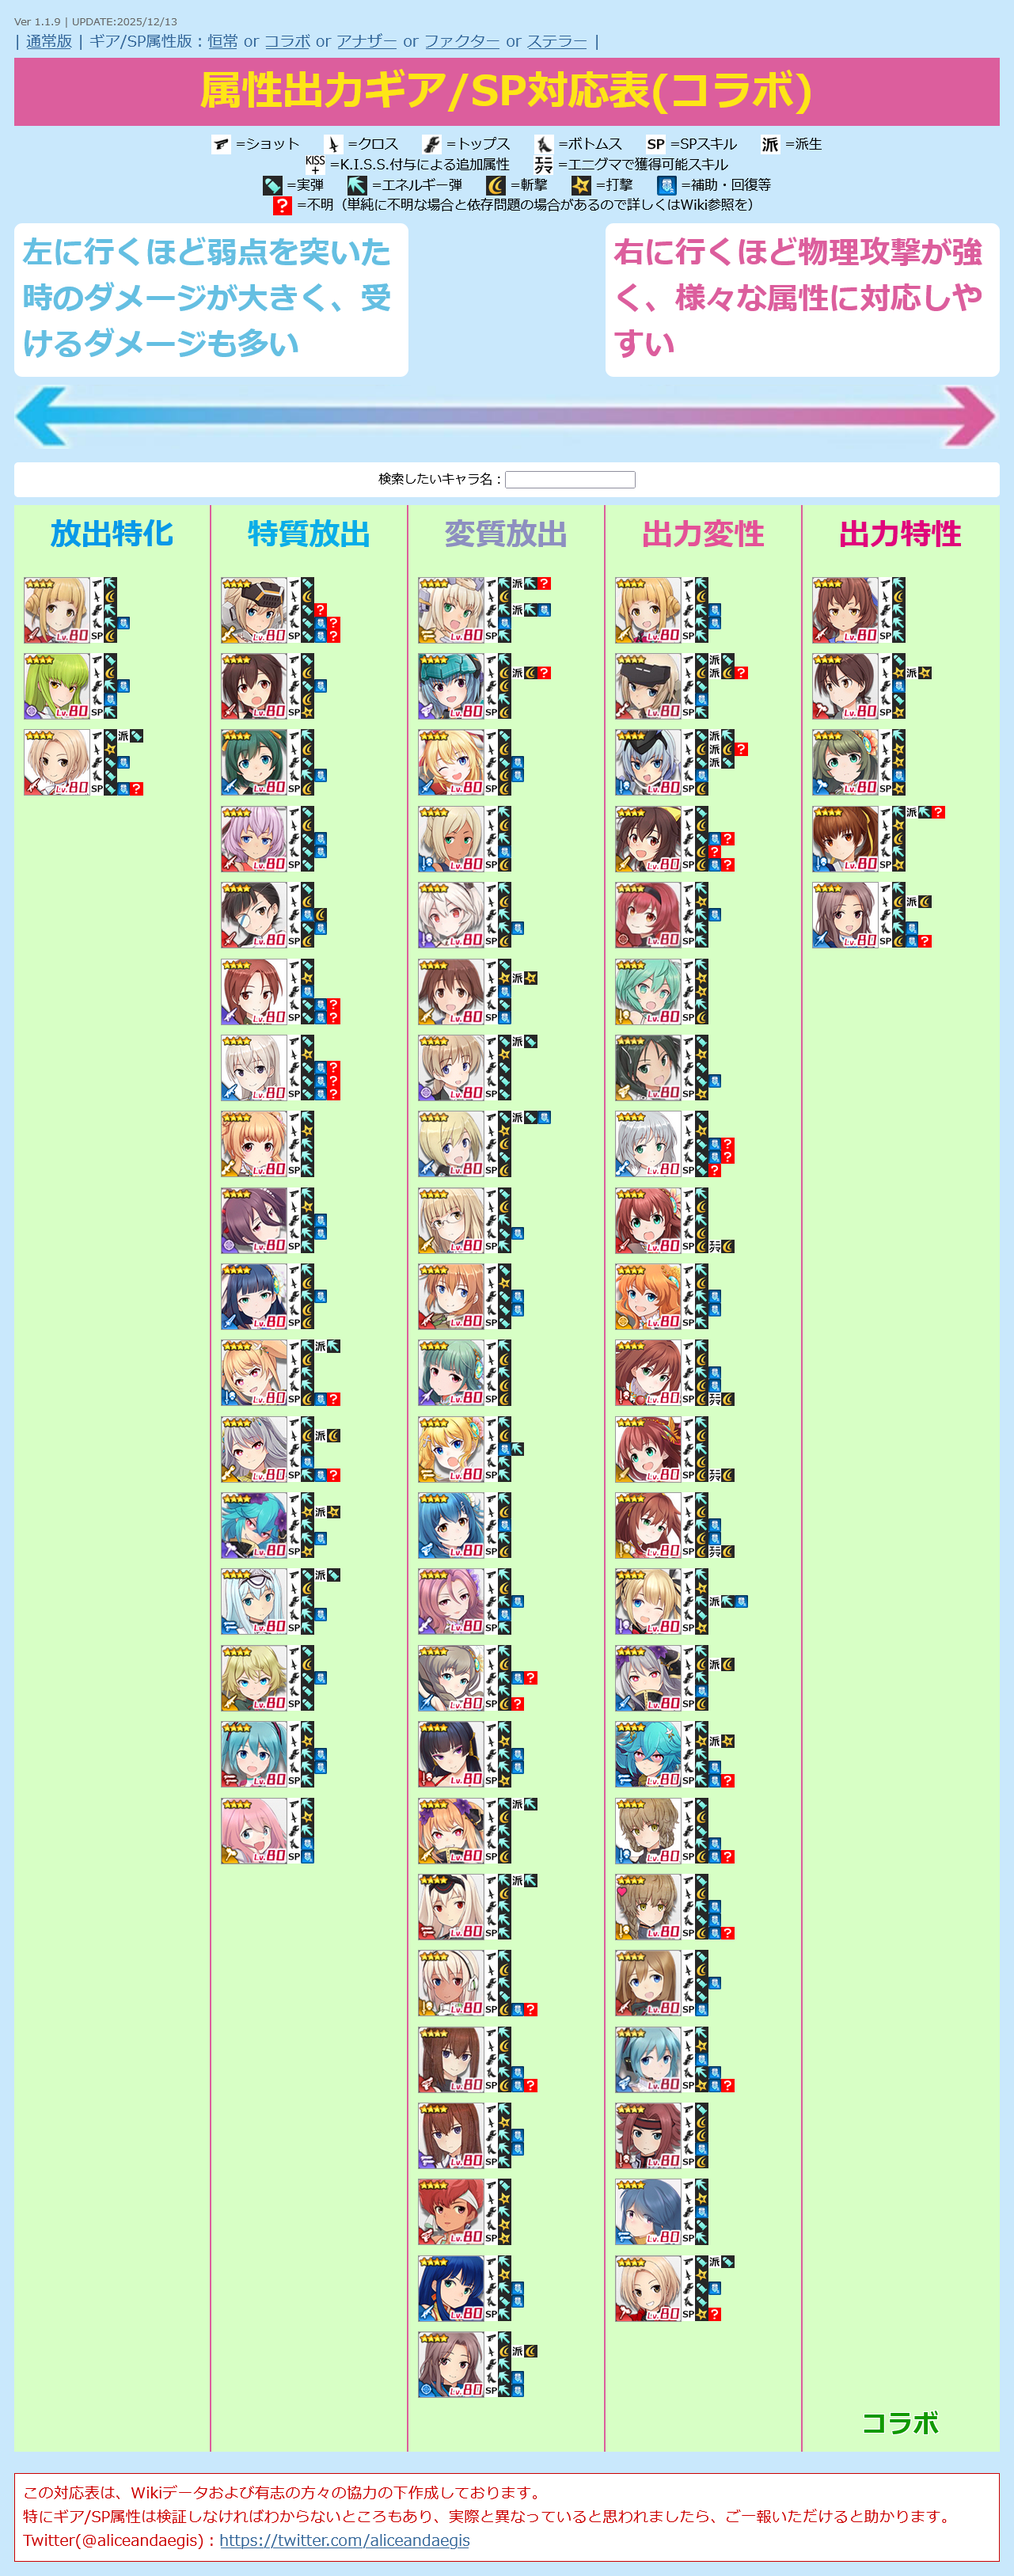
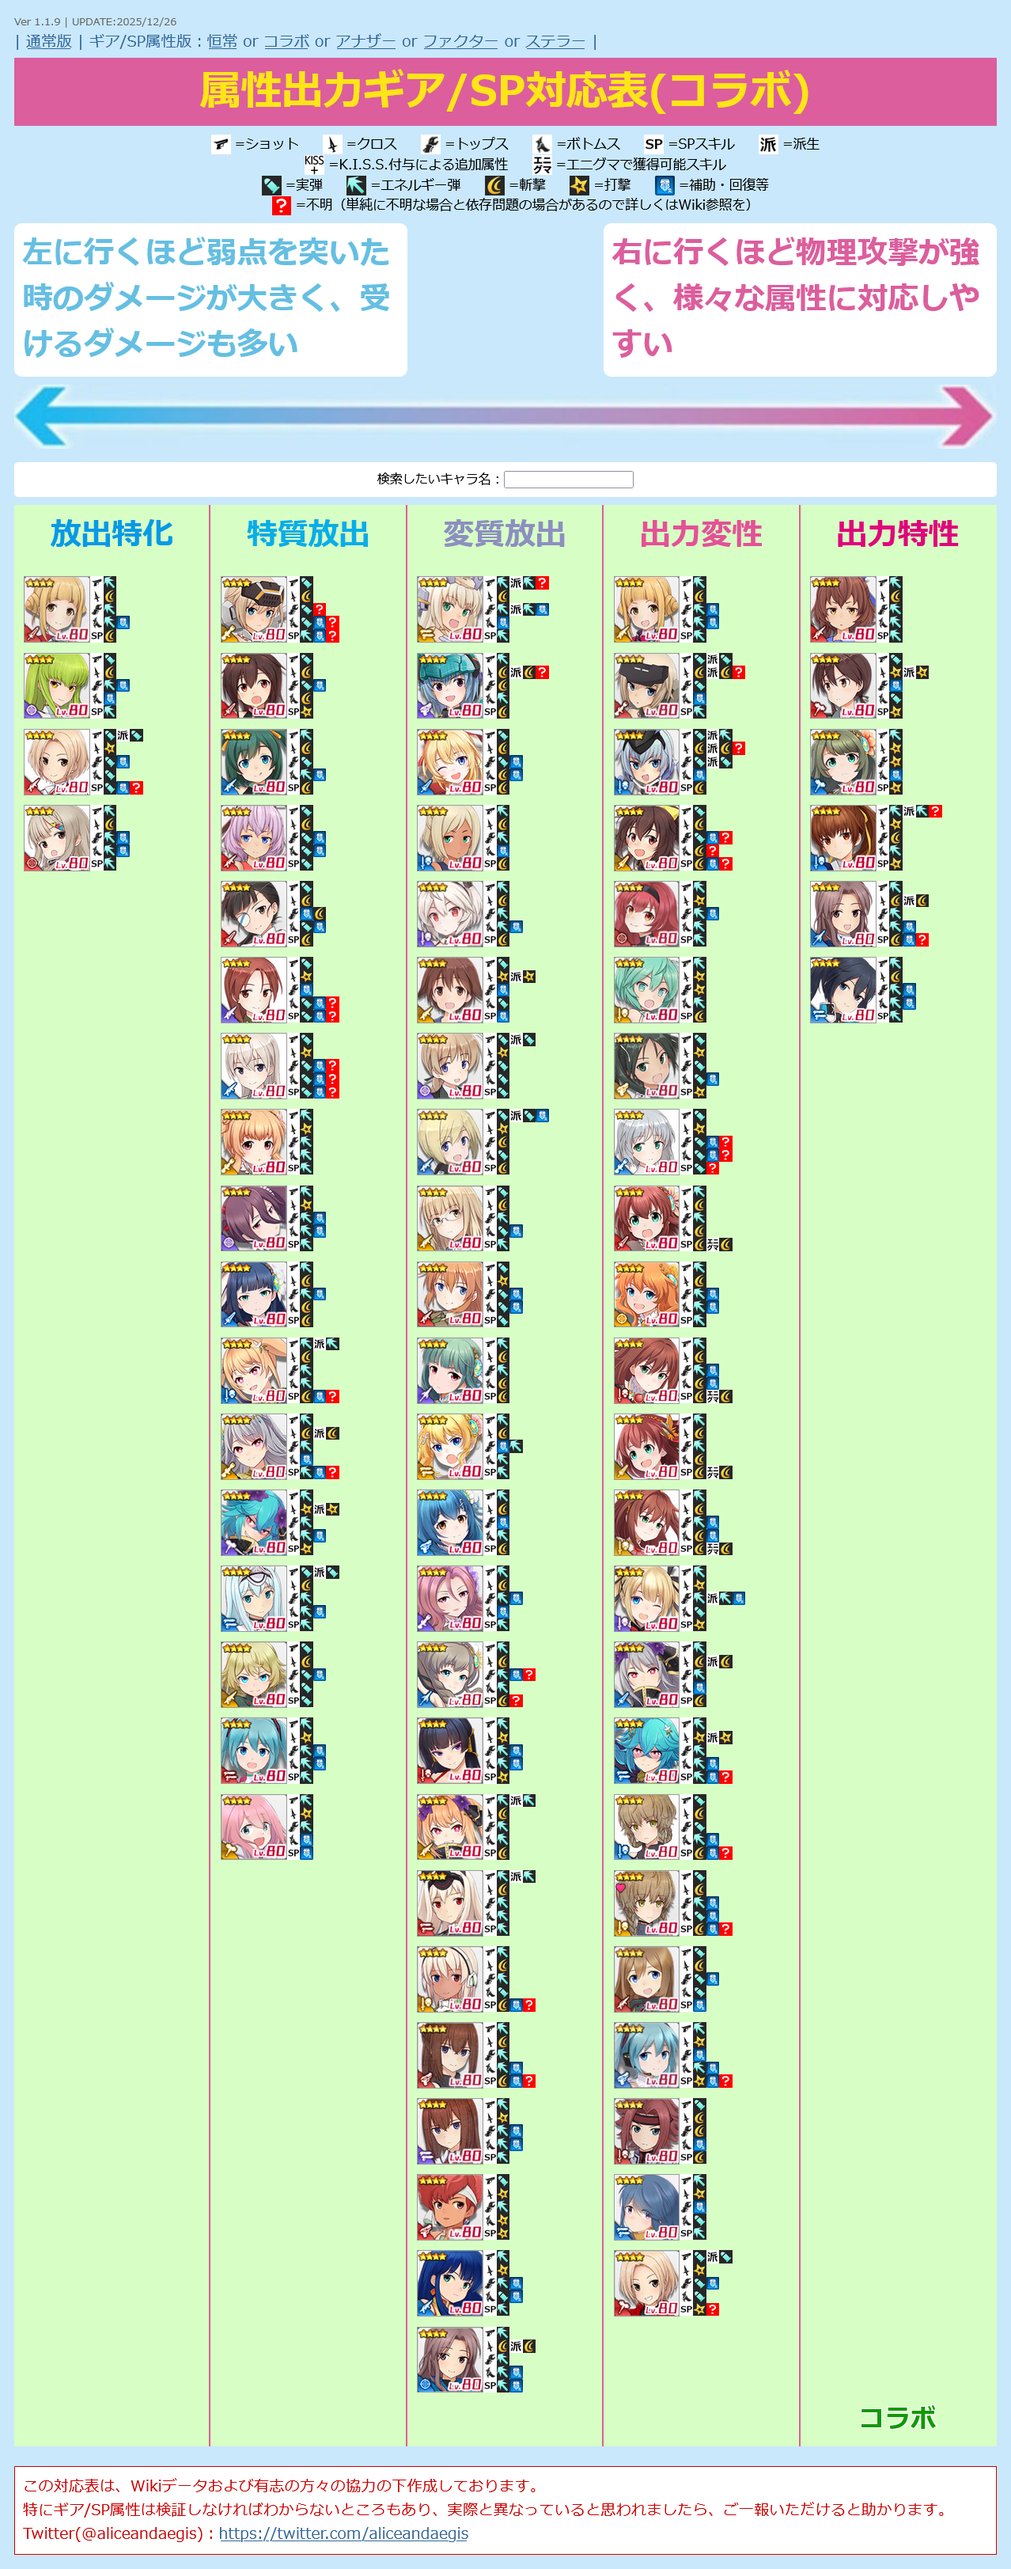
UPDATE charadata
・コラボ 楽華 明瑠を追加
・コラボ 彗聖 紬を追加

diff --git a/alice.html b/alice.html
@@ -12,7 +12,7 @@
   <script>
 
 /* 更新情報 必要に応じて書き換えてください */
-  var version = "Ver 1.1.9 | UPDATE:2025/12/13";
+  var version = "Ver 1.1.9 | UPDATE:2025/12/26";
 
 
 /*
@@ -21,7 +21,7 @@
 
   { ... },
   でキャラデータがワンセット。各項目は下記の通り。
-  id       = 番号(101～アニメ、151～FAG/創彩少女庭園コラボ、201～SOL/DTAコラボ、301～ｽﾄﾗｲｸｳｨｯﾁｰｽﾞ、401～ﾊﾞﾄﾙｶﾞｰﾙﾊｲｽｸｰﾙ、501～ﾃﾞｯﾄﾞｵｱｱﾗｲﾌﾞ、601～東京ﾄﾞｰﾙｽﾞ、701～ﾀﾞﾗｲｱｽ、801～ｼｭﾀｲﾝｽﾞ･ｹﾞｰﾄ、811～幼女戦記、821～ﾀﾞｰﾃｨﾍﾟｱ、831～初音ミクコラボ)、841～ｺｰﾄﾞｷﾞｱｽ、851～ゆるキャン、861～ﾎﾞｰﾄﾚｰｽ江戸川
+  id       = 番号(101～アニメ、151～FAG/創彩少女庭園コラボ、201～SOL/DTAコラボ、301～ｽﾄﾗｲｸｳｨｯﾁｰｽﾞ、401～ﾊﾞﾄﾙｶﾞｰﾙﾊｲｽｸｰﾙ、501～ﾃﾞｯﾄﾞｵｱｱﾗｲﾌﾞ、601～東京ﾄﾞｰﾙｽﾞ、701～ﾀﾞﾗｲｱｽ、801～ｼｭﾀｲﾝｽﾞ･ｹﾞｰﾄ、811～幼女戦記、821～ﾀﾞｰﾃｨﾍﾟｱ、831～初音ミクコラボ)、841～ｺｰﾄﾞｷﾞｱｽ、851～ゆるキャン、861～ﾎﾞｰﾄﾚｰｽ江戸川、871～ｶﾞｲｱﾉｰﾂ
   type     = 1=放出特化、2=特質放出、3=変質放出、4=出力変性、5=出力特性
   src      = 画像ファイル名
   name     = キャラクター名
@@ -2650,7 +2650,7 @@
       "equip2": "3",
       "equip3": "1?",
       "equip4": "15?",
-      "sp": "15?",
+      "sp": "25?",
       "attr": "1",
       "link": "https://wikiwiki.jp/alicegear/%E8%BD%9F%E9%9B%B7%E6%94%B9",
       "category": "99"
@@ -3611,6 +3611,34 @@
       "sp": "35?",
       "attr": "4",
       "link": "https://wikiwiki.jp/alicegear/%E8%92%BC%E6%B5%9C%E9%BA%BB%E9%A7%86%E7%90%86%E6%B8%85%E6%BE%84",
+      "category": "99"
+    },
+    {
+      "id": "871",
+      "type": "1",
+      "src": "normal-meru.png",
+      "name": "楽華 明瑠",
+      "equip1": "2",
+      "equip2": "3",
+      "equip3": "25",
+      "equip4": "25",
+      "sp": "2",
+      "attr": "3",
+      "link": "https://wikiwiki.jp/alicegear/%E6%A5%BD%E8%8F%AF%E6%98%8E%E7%91%A0",
+      "category": "99"
+    },
+    {
+      "id": "872",
+      "type": "5",
+      "src": "normal-tsumugi.png",
+      "name": "彗聖 紬",
+      "equip1": "2",
+      "equip2": "3",
+      "equip3": "25",
+      "equip4": "25",
+      "sp": "2",
+      "attr": "4",
+      "link": "https://wikiwiki.jp/alicegear/%E5%BD%97%E8%81%96%E7%B4%AC",
       "category": "99"
     },
 
